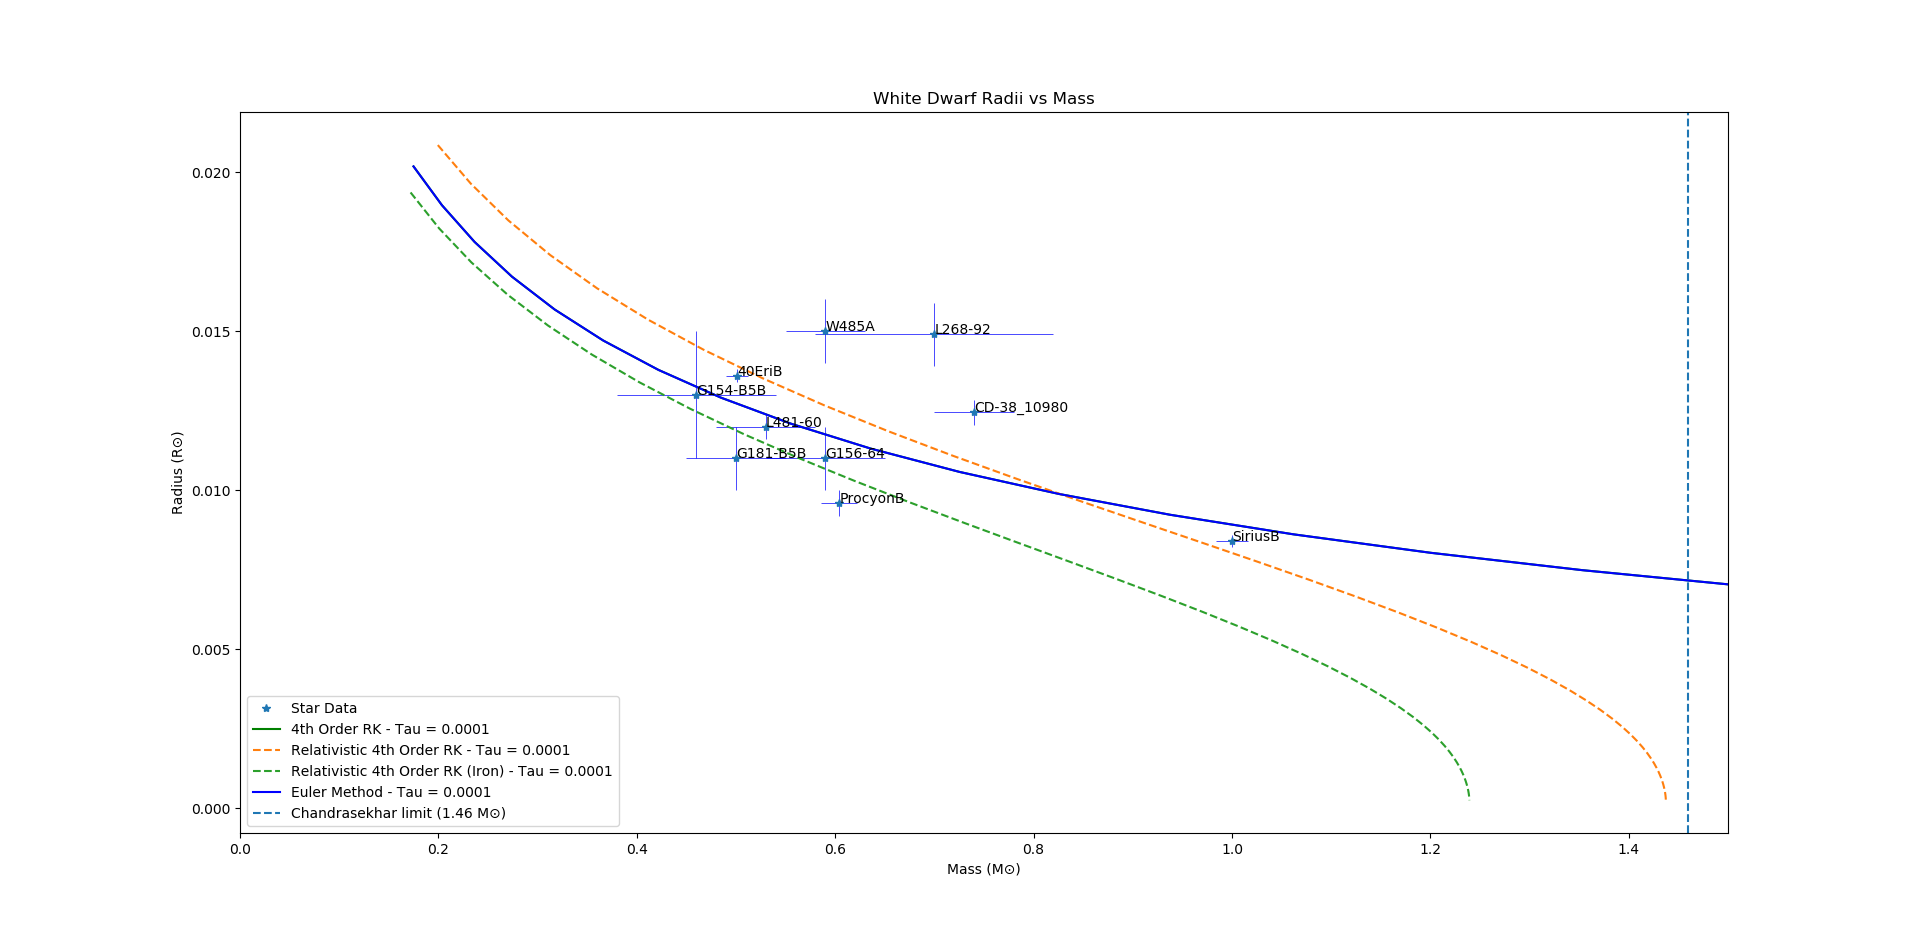
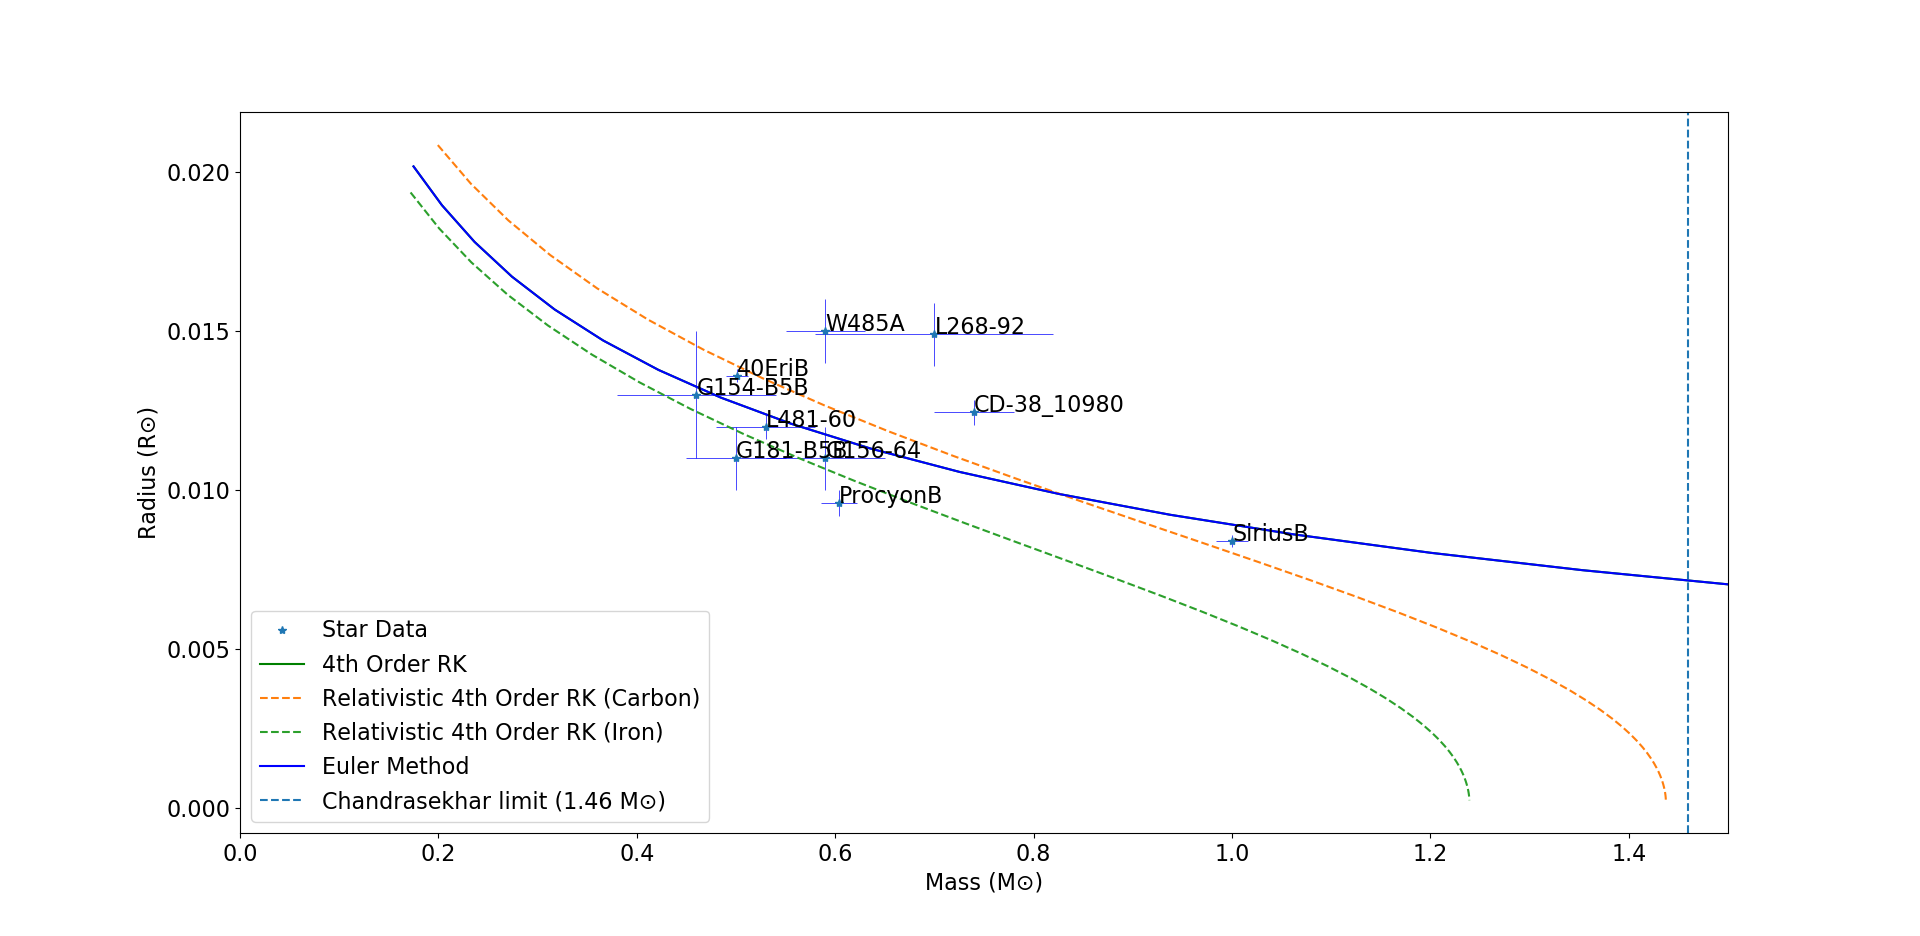
changes curves

diff --git a/final.py b/final.py
@@ -201,19 +201,19 @@ radius_solar_AB = np.array(radius_AB)*R_0/R_sun                   #converts dime
 mass_solar_AB = np.array(mass_AB)*M_0/M_sun                       #converts dimensionless mass in terms of solar mass
 """
 
-
+plt.rcParams.update({'font.size': 16})
 #Plots mass vs radius-------------------------------------------------------------------------------------------------------------------
-plt.plot(mass_solar_RK4,radius_solar_RK4, 'b', label="4th Order RK - Tau = {}".format(tau))     #plots the RK4 function
-plt.plot(mass_solar_Rel_RK4,radius_solar_Rel_RK4,linestyle='--', label="Relativistic 4th Order RK (Carbon) - Tau = {}".format(tau))
-plt.plot(mass_solar_Rel_fe_RK4,radius_solar_Rel_fe_RK4,linestyle='--', label="Relativistic 4th Order RK (Iron) - Tau = {}".format(tau))     #plots the RK4 function
+plt.plot(mass_solar_RK4,radius_solar_RK4, 'b', label="4th Order RK")     #plots the RK4 function
+plt.plot(mass_solar_Rel_RK4,radius_solar_Rel_RK4,linestyle='--', label="Relativistic 4th Order RK (Carbon)")
+plt.plot(mass_solar_Rel_fe_RK4,radius_solar_Rel_fe_RK4,linestyle='--', label="Relativistic 4th Order RK (Iron)")     #plots the RK4 function
 #plt.plot(mass_solar_AB,radius_solar_AB, 'b', label="4th Order Adam-Bashford - Tau = {}".format(tau))
-plt.plot(mass_solar_Eu,radius_solar_Eu, 'g', label="Euler Method - Tau = {}".format(tau))
+plt.plot(mass_solar_Eu,radius_solar_Eu, 'g', label="Euler Method")
 plt.axvline(x=M_limit ,linestyle='--',label="Chandrasekhar limit (1.46 M⊙)")
 plt.legend()
 plt.ylabel('Radius (R⊙)')
 plt.xlabel('Mass (M⊙)')
 plt.xlim([0, 1.5])
-plt.title("White Dwarf Radii vs Mass")
+#plt.title("White Dwarf Radii vs Mass")
 plt.show()
 
 #Plotting vs example stars--------------------------------------------------------------------------------------------------------------------
@@ -223,15 +223,15 @@ star_names = np.genfromtxt('wd_data.txt', dtype=str, usecols=(0)).tolist()      
 plt.plot(stars[:,0],stars[:,2], '*', label="Star Data")
 plt.errorbar(x=stars[:,0],y=stars[:,2],yerr=stars[:,3],xerr=stars[:,1], fmt=' ',color='b', elinewidth=0.5)
 for i in range(len(star_names)): plt.annotate(star_names[i],xy=(stars[i,0],stars[i,2]))     #adds star names to star data
-plt.plot(mass_solar_RK4,radius_solar_RK4, 'g', label="4th Order RK - Tau = {}".format(tau))
-plt.plot(mass_solar_Rel_RK4,radius_solar_Rel_RK4,linestyle='--', label="Relativistic 4th Order RK - Tau = {}".format(tau))     #plots the RK4 function
-plt.plot(mass_solar_Rel_fe_RK4,radius_solar_Rel_fe_RK4,linestyle='--', label="Relativistic 4th Order RK (Iron) - Tau = {}".format(tau))     #plots the RK4 function
+plt.plot(mass_solar_RK4,radius_solar_RK4, 'g', label="4th Order RK")
+plt.plot(mass_solar_Rel_RK4,radius_solar_Rel_RK4,linestyle='--', label="Relativistic 4th Order RK (Carbon)")     #plots the RK4 function
+plt.plot(mass_solar_Rel_fe_RK4,radius_solar_Rel_fe_RK4,linestyle='--', label="Relativistic 4th Order RK (Iron)")     #plots the RK4 function
 
-plt.plot(mass_solar_Eu,radius_solar_Eu, 'b', label="Euler Method - Tau = {}".format(tau))
+plt.plot(mass_solar_Eu,radius_solar_Eu, 'b', label="Euler Method")
 plt.axvline(x=M_limit ,linestyle='--',label="Chandrasekhar limit (1.46 M⊙)")
 plt.legend()
 plt.ylabel('Radius (R⊙)')
 plt.xlabel('Mass (M⊙)')
 plt.xlim([0, 1.5])
-plt.title("White Dwarf Radii vs Mass")
+#plt.title("White Dwarf Radii vs Mass")
 plt.show()
